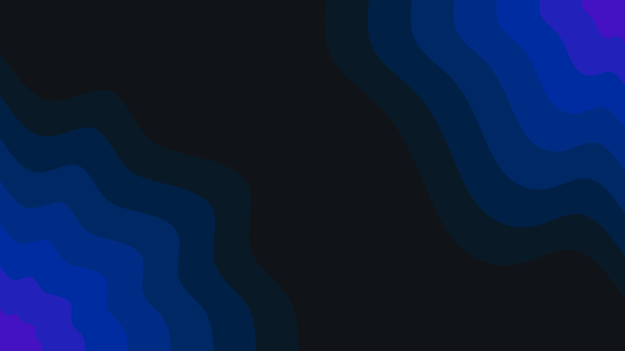
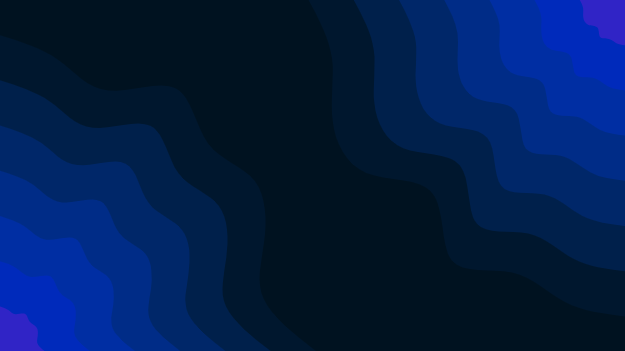
update theme log in

diff --git a/src/pages/Login.jsx b/src/pages/Login.jsx
@@ -1,16 +1,22 @@
 import bg from "../images/bg_login.png";
+import bg2 from "../images/bg_login2.png";
 import { Button } from "@/components/ui/button";
 import { Input } from "@/components/ui/input";
 import { Label } from "@/components/ui/label";
 import Toggle from "@/components/Toggle";
 
 import { useState } from "react";
+import { useTheme } from "@/provider/Theme";
+import { useNavigate } from "react-router-dom";
 
 const Login = () => {
   const [formData, setFormData] = useState({
     username: "",
     password: "",
   });
+
+  const { theme } = useTheme();
+  const navigate = useNavigate();
 
   const handleChange = (e) => {
     setFormData({ ...formData, [e.target.name]: e.target.value });
@@ -19,6 +25,7 @@ const Login = () => {
   const login = (e) => {
     e.preventDefault();
     console.log(formData);
+    navigate("/");
   };
   return (
     <div
@@ -27,9 +34,13 @@ const Login = () => {
       <div className="absolute top-2 right-2">
         <Toggle />
       </div>
-      <img src={bg} alt="" className="w-[100%] h-[100%] absolute -z-10" />
+      <img
+        src={theme == "light" ? bg2 : bg}
+        alt=""
+        className="w-[100%] h-[100%] absolute -z-10"
+      />
 
-      <div className="relative flex flex-col gap-5 items-center h-[70%] w-[450px] bg-[#ffffff] dark:bg-[#0808088a] shadow-3xl rounded-3xl">
+      <div className="relative flex flex-col gap-5 items-center h-[70%] w-[450px] bg-[#f5f5f5] dark:bg-[#0808088a] shadow-3xl rounded-3xl">
         <h1 className="text-3xl font-bold mt-10">Pizz admin </h1>
         <form
           onSubmit={login}

diff --git a/src/components/Nav.jsx b/src/components/Nav.jsx
@@ -5,6 +5,7 @@ import {
   Users,
   ImagePlus,
   LayoutList,
+  LogOut,
 } from "lucide-react";
 import Toggle from "./Toggle";
 import { Link } from "react-router-dom";
@@ -48,6 +49,12 @@ const Nav = () => {
           <div className="flex gap-3 items-center cursor-pointer rounded-md hover:dark:bg-[#554545] hover:bg-[#eee8e8] p-2">
             <Users size={23} strokeWidth={1.5} />
             <h1 className="text-lg font-semibold">Customers</h1>
+          </div>
+        </Link>
+        <Link to={"/login"}>
+          <div className="flex gap-3 items-center cursor-pointer rounded-md hover:dark:bg-[#554545] hover:bg-[#eee8e8] p-2">
+            <LogOut size={23} strokeWidth={1.5} />
+            <h1 className="text-lg font-semibold">Log out</h1>
           </div>
         </Link>
       </div>
